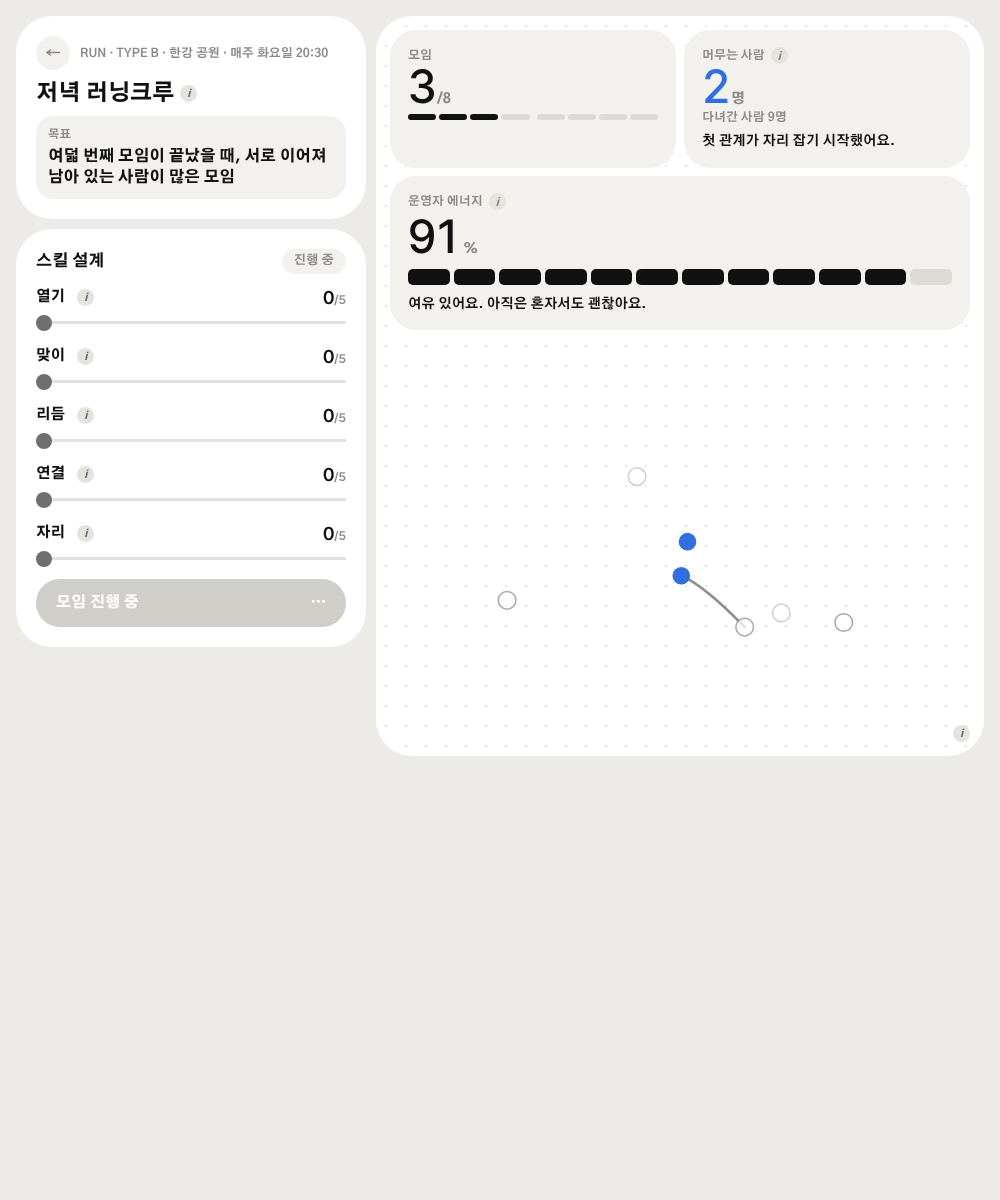
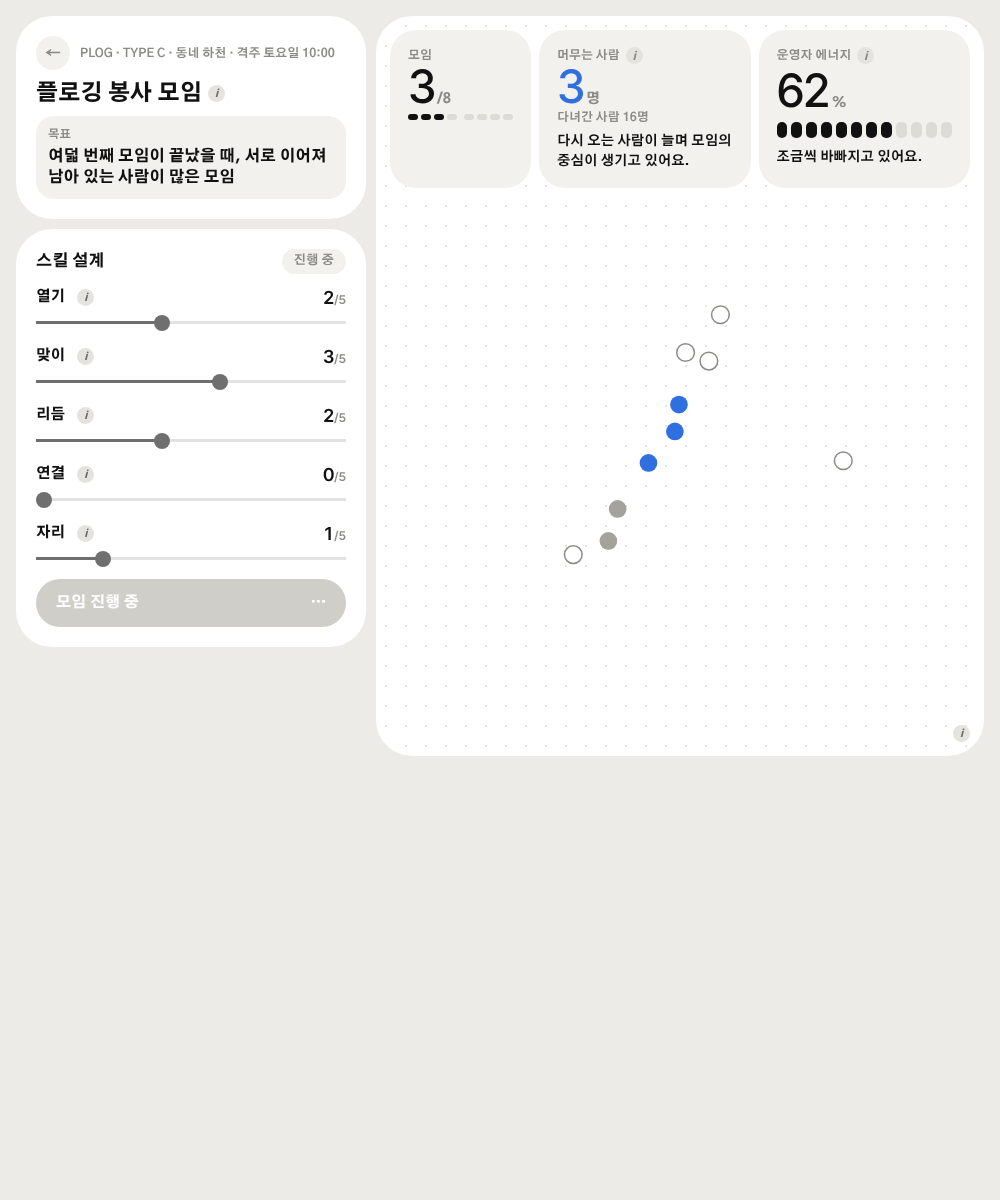
게임 v1.8 시안: 결과 세 칸 항상 한 줄, 넓은 화면(아이맥)에 맞춰 폭 확장
Claude-Session: https://claude.ai/code/session_01SaCvLutmawHZS3kxPWYxw7

diff --git a/thesis/game/moim.v07.src.html b/thesis/game/moim.v07.src.html
@@ -502,7 +502,6 @@ body{background:var(--page)}
 
 /* ───────── v1.2 결과 세 개는 동심원 위에 한 줄로 묶음 ───────── */
 .ovbar{position:absolute;left:14px;right:14px;top:14px;display:grid;grid-template-columns:minmax(0,1.25fr) minmax(0,.75fr) minmax(0,1.25fr);gap:8px;z-index:2}
-@media (max-width:1100px){.ovbar{grid-template-columns:minmax(0,1fr) minmax(0,1fr)}.ovbar .ov-e{grid-column:1/-1}}
 .ovbar .ov{position:static;width:auto;align-content:start}
 .ovbar .ov-e{gap:6px}
 .ovbar .hero-n{font-size:clamp(44px,4.6vw,64px)}
@@ -562,7 +561,11 @@ body{background:var(--page)}
 .ovbar .ov-e .hero-n.low{color:var(--red)}
 .ovbar .ov-e .gauge{margin-top:6px}
 .ovbar .ov-e .info .tip{left:-8px;right:auto}
-@media (max-width:1100px){.ovbar{grid-template-columns:minmax(0,1fr) minmax(0,1fr)}.ovbar .ov-e{grid-column:1/-1}}
+
+/* ───────── v1.8 결과 세 칸은 항상 한 줄 (아주 좁은 화면만 쌓음), 아이맥처럼 넓은 화면은 더 넓게 ───────── */
+.wrap{max-width:min(1720px,100%)}
+@media (max-width:720px){.ovbar{grid-template-columns:minmax(0,1fr) minmax(0,1fr)}.ovbar .ov-e{grid-column:1/-1}}
+@media (min-width:1600px){.tool{grid-template-columns:400px minmax(0,1fr)}.canvas-wrap{min-height:min(82vh,900px)}}
 @media (prefers-reduced-motion:reduce){*{transition:none!important;animation:none!important}}
 </style>
 

diff --git a/thesis/26-game-prototype.md b/thesis/26-game-prototype.md
@@ -147,3 +147,7 @@
 - 연구자 요청: 결과 순서를 모임 → 남은 관계 → 에너지로, 에너지도 큰 숫자 레이아웃으로, "지금 남아 있는 관계" 대신 다른 말
 - 순서 변경, 에너지도 큰 숫자(30% 미만 빨강) + 칸 게이지 + 상황 문장
 - 용어: "커뮤니티 규모"는 가입자 수처럼 읽혀 "가입자 수가 아니라 머무는 관계로 본다"는 메시지와 어긋남 → "머무는 사람"(다녀간 사람과 짝)으로 바꿈. 결과 화면·첫 화면 말풍선·비교 문장도 같이 바꿈 (연구자 확인 필요)
+
+## v1.8 시안 (2026-10-28)
+- 연구자: 전시 모니터가 아이맥(가로가 긴 화면)이라 결과 세 칸을 한 줄로
+- 결과 세 칸은 폭 720px 이상이면 항상 한 줄. 전체 폭 상한 1240→1720px, 1600px 이상 화면에서는 왼쪽 패널 400px·캔버스 높이 최대 900px
